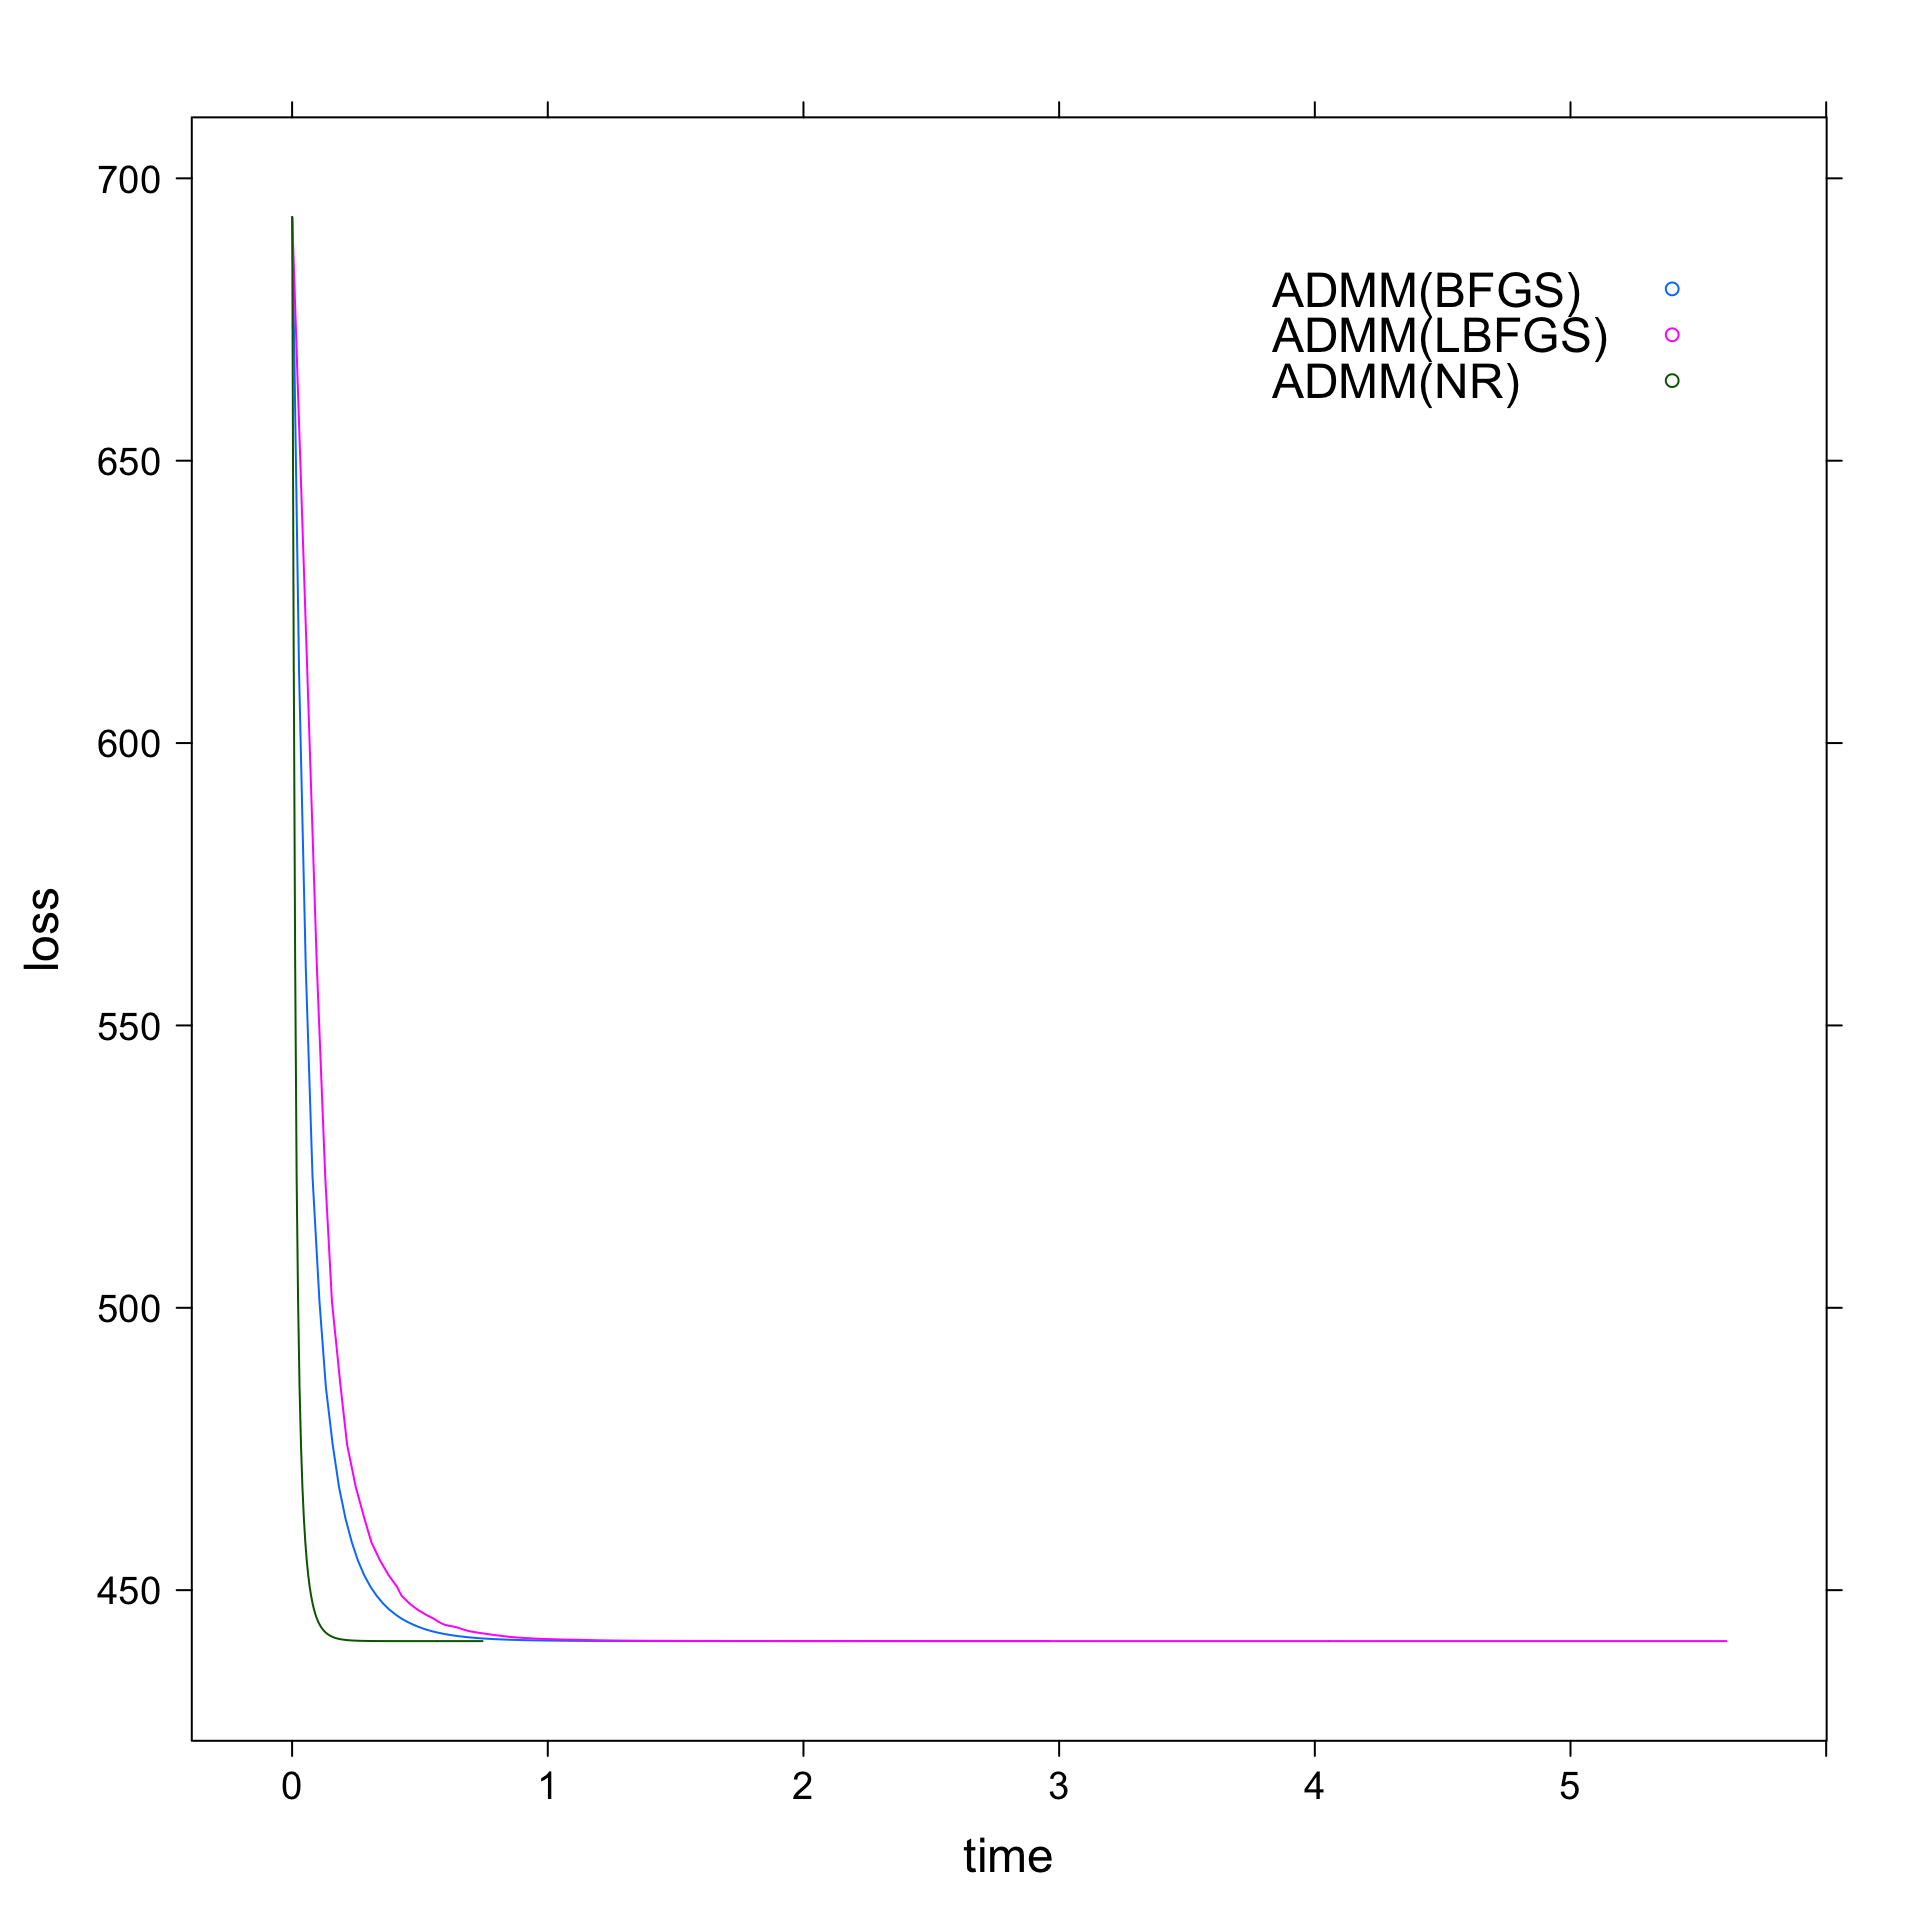
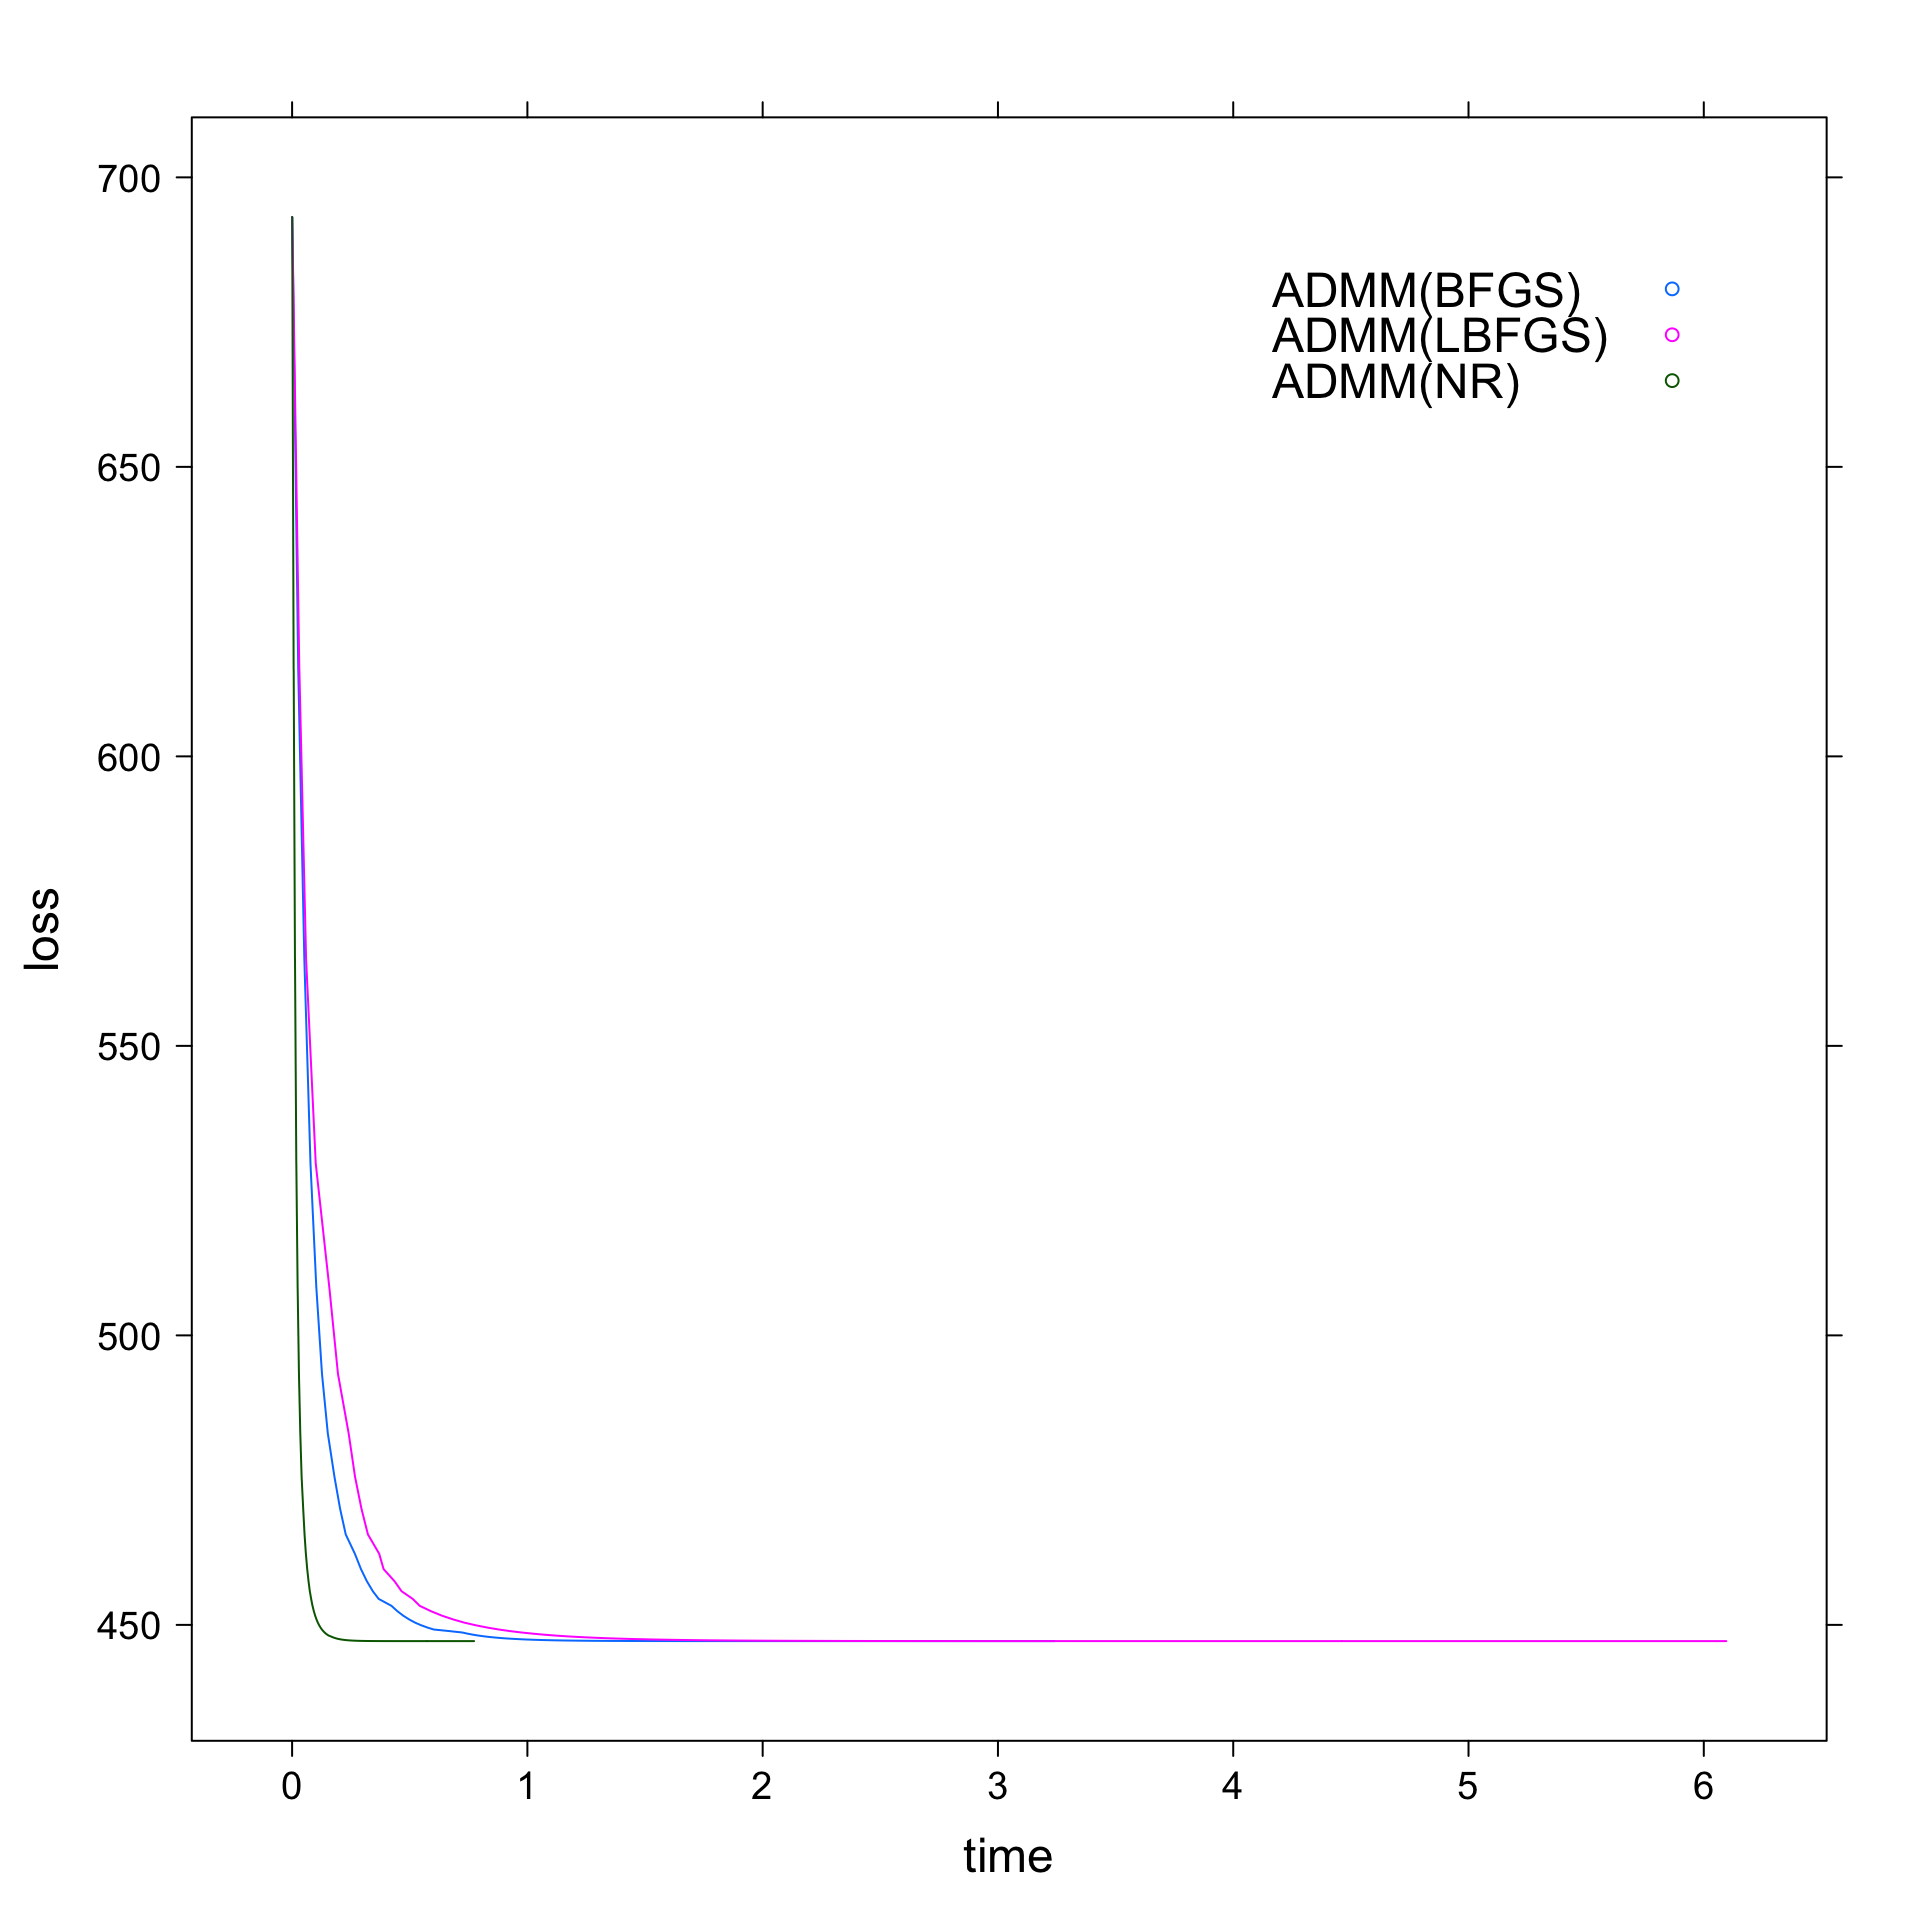
Built site for solvers: 1.0@f97b4e6

diff --git a/articles/compare_opt_algo.html b/articles/compare_opt_algo.html
@@ -78,7 +78,7 @@
       <h1 data-toc-skip>Comparing Optimization Algorithm Choices in ADMM</h1>
                         <h4 class="author">Akarsh Goyal</h4>
             
-            <h4 class="date">2020-08-05</h4>
+            <h4 class="date">2020-08-13</h4>
       
       
       <div class="hidden name"><code>compare_opt_algo.Rmd</code></div>
@@ -111,11 +111,11 @@
 <div class="sourceCode" id="cb4"><pre class="downlit">
 <span class="co"># Comparing total execution time</span>
 <span class="fu"><a href="https://rdrr.io/r/base/print.html">print</a></span>(<span class="kw">admm_nr</span><span class="op">$</span><span class="kw">total_time</span>)
-<span class="co">#&gt; [1] 0.7513818</span>
+<span class="co">#&gt; [1] 0.7801726</span>
 <span class="fu"><a href="https://rdrr.io/r/base/print.html">print</a></span>(<span class="kw">admm_bfgs</span><span class="op">$</span><span class="kw">total_time</span>)
-<span class="co">#&gt; [1] 2.987576</span>
+<span class="co">#&gt; [1] 3.263433</span>
 <span class="fu"><a href="https://rdrr.io/r/base/print.html">print</a></span>(<span class="kw">admm_lbfgs</span><span class="op">$</span><span class="kw">total_time</span>)
-<span class="co">#&gt; [1] 5.660568</span>
+<span class="co">#&gt; [1] 6.142019</span>
 </pre></div>
 <p>Now, these fits cannot be directly used to plot as they contain a lot of parameter so we’ll call a utility function that merges the relevant parameter and returns a dataframe.</p>
 <div class="sourceCode" id="cb5"><pre class="downlit">

diff --git a/articles/compare-fista-admm-pn.html b/articles/compare-fista-admm-pn.html
@@ -78,7 +78,7 @@
       <h1 data-toc-skip>Comparing FISTA, ADMM and Proximal Newton</h1>
                         <h4 class="author">Akarsh Goyal</h4>
             
-            <h4 class="date">2020-08-05</h4>
+            <h4 class="date">2020-08-13</h4>
       
       
       <div class="hidden name"><code>compare-fista-admm-pn.Rmd</code></div>
@@ -109,11 +109,11 @@
 <div class="sourceCode" id="cb4"><pre class="downlit">
 <span class="co"># Comparing total execution time</span>
 <span class="fu"><a href="https://rdrr.io/r/base/print.html">print</a></span>(<span class="kw">fista_fit</span><span class="op">$</span><span class="kw">total_time</span>)
-<span class="co">#&gt; [1] 0.1144911</span>
+<span class="co">#&gt; [1] 0.1096236</span>
 <span class="fu"><a href="https://rdrr.io/r/base/print.html">print</a></span>(<span class="kw">admm_fit</span><span class="op">$</span><span class="kw">total_time</span>)
-<span class="co">#&gt; [1] 0.4068238</span>
+<span class="co">#&gt; [1] 0.3884628</span>
 <span class="fu"><a href="https://rdrr.io/r/base/print.html">print</a></span>(<span class="kw">pn_fit</span><span class="op">$</span><span class="kw">total_time</span>)
-<span class="co">#&gt; [1] 6.364462</span>
+<span class="co">#&gt; [1] 6.644438</span>
 </pre></div>
 <p>Now, these fits cannot be directly used to plot as they contain a lot of parameter so we’ll call a utility function that merges the relevant parameter and returns a dataframe.</p>
 <div class="sourceCode" id="cb5"><pre class="downlit">
